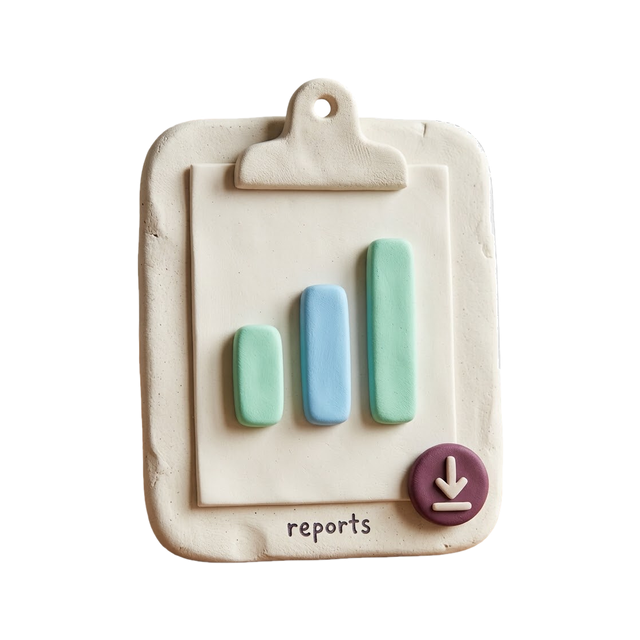
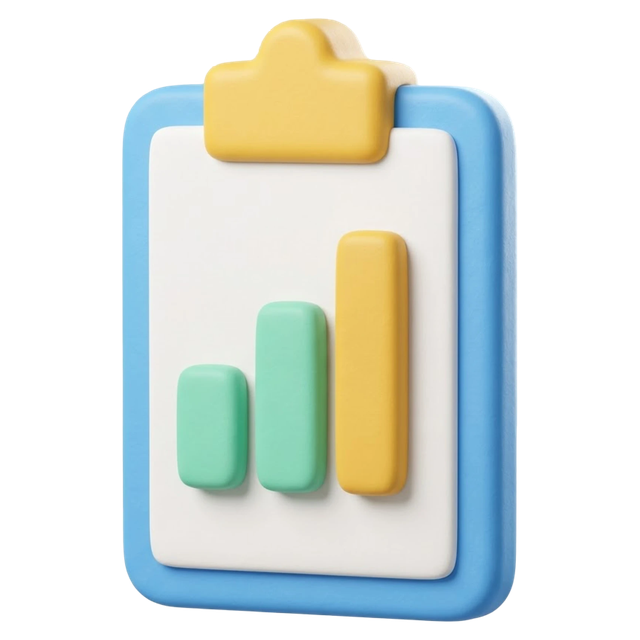
Clay v2: reports clipboard

diff --git a/docs/CLAY-PROMPTS-V2.md b/docs/CLAY-PROMPTS-V2.md
@@ -262,6 +262,8 @@ off-white = paper, neutral parts.
 > Subject: two chunky rounded puzzle pieces fully joined together, the tab sitting inside the slot. Sky blue piece (#6CB8F0) and gold piece (#FFC94D).
 
 **reports**
+> ✅ Round 1 approved (2026-10-30). Close to improve (rising bars, gold tallest) but the clipboard sets it apart. Installed.
+>
 > Subject: a chunky rounded clipboard, turned about 20°, holding a white sheet with a raised bar chart of three thick bars. Sky blue board (#6CB8F0), a gold clip (#FFC94D), a white sheet, mint and gold bars.
 
 **power-features**
